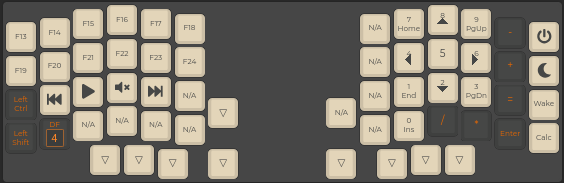
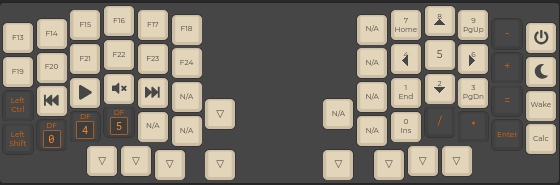
Add gaming layer

diff --git a/keymaps/olillin/readme.md b/keymaps/olillin/readme.md
@@ -38,3 +38,16 @@ In addition to this there are also mouse controls.
 ![Layer 3](layer_screenshots/layer3.png)
 
 The Numpad layer exposes a numpad on the right hand and media and extra function buttons on the left hand.
+
+### Layer 4: Plover
+
+![Layer 4](layer_screenshots/layer4.png)
+
+Stenography keys.
+
+### Layer 5: Gaming
+
+![Layer 5](layer_screenshots/layer5.png)
+
+Copy of Layer 0 but with `L_CTL_T(KC_ESC)` replaced with normal `KC_LCTL`.
+
